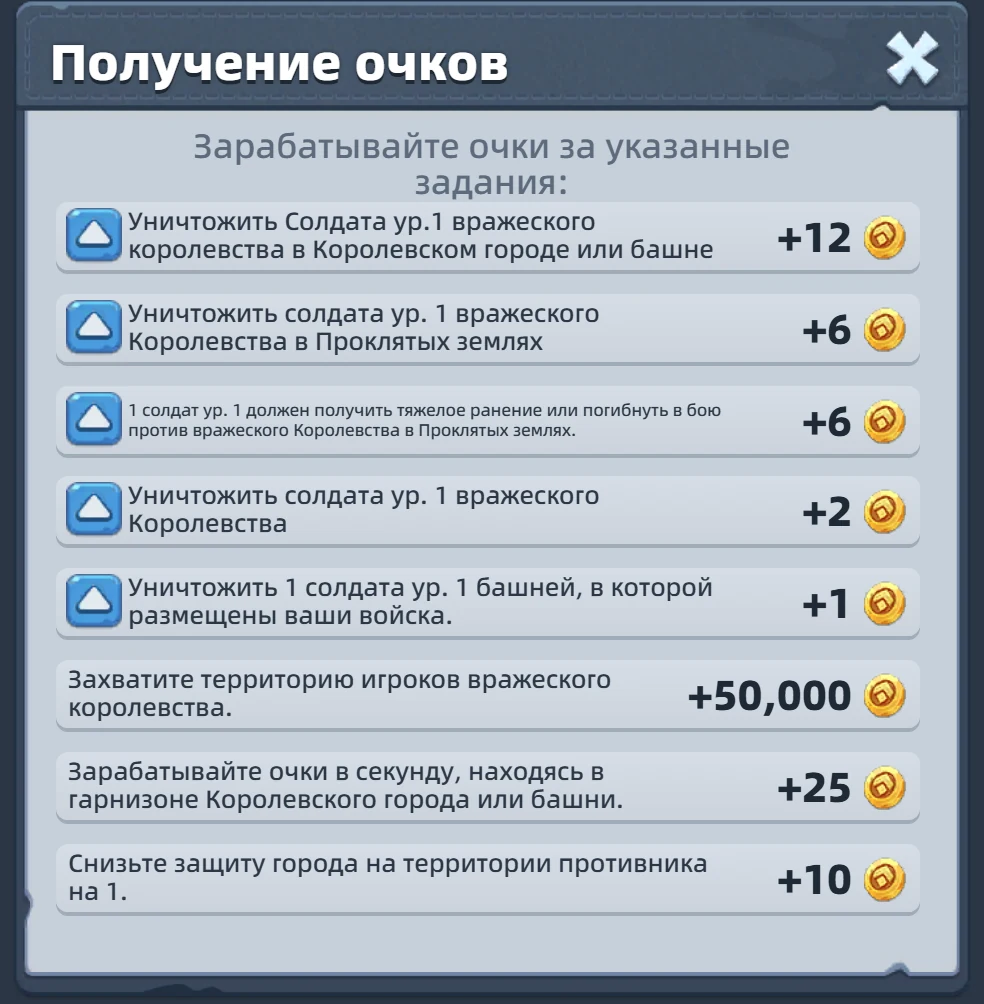
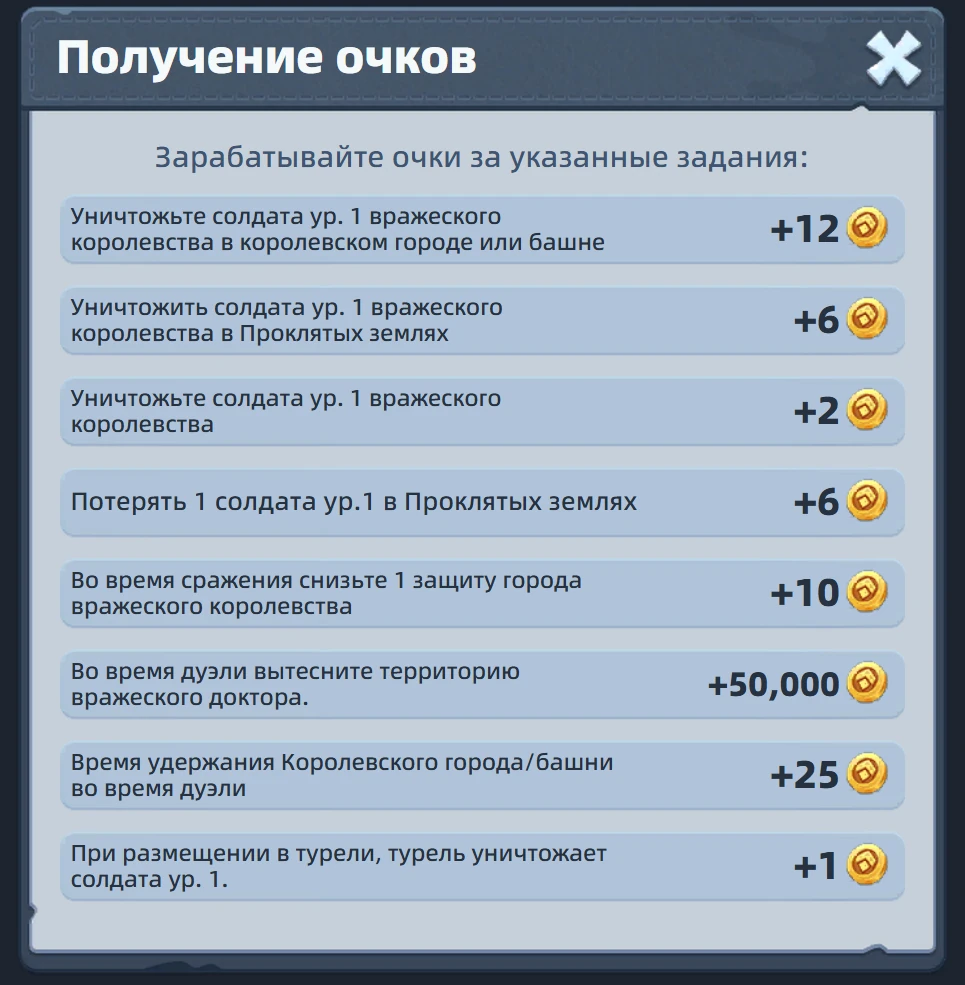
«Получение очков»: нынешнее окно игры, собранное по его схеме из файлов
Взяты свежие файлы игры: установочный 1.0.117 и докачанные игрой ресурсы
версии 1.0.830 (с эмулятора на Ринтике, 3481 пакет). Окно
ZoneContestStageDetailsPanel собрано по его схеме NGUI: каждая картинка из
того атласа, на который ссылается схема, на своём месте и своего размера;
тексты строк — нынешние из игры («Уничтожьте…», «Во время дуэли
вытесните…»), шрифт Alibaba PuHuiTi 2. Стрелок раскрытия у строк нет,
как в игре сейчас. Обводка перенесена на строку удержания (гарнизон, +25).

diff --git a/kvk.html b/kvk.html
@@ -419,8 +419,8 @@
       <p class="cap">Солдаты выше 1 уровня дают больше очков.</p>
     </div>
     <div>
-      <div class="shot"><img src="assets/shots/kvk-points.webp" alt="Окно «Получение очков» в игре" loading="lazy"><span class="ring rect" style="left:48.7%;top:78.8%;width:90%;aspect-ratio:13"></span></div>
-      <p class="cap">Настоящее окно «Получение очков» из игры. Обведена строка, которая важнее всех остальных: гарнизон, +25 в секунду.</p>
+      <div class="shot"><img src="assets/shots/kvk-points.webp" alt="Окно «Получение очков» в игре" loading="lazy"><span class="ring rect" style="left:50%;top:78.8%;width:89%;aspect-ratio:13.2"></span></div>
+      <p class="cap">Окно «Получение очков» в нынешней версии игры. Обведена строка, которая важнее всех остальных: удержание Королевского города или башни, то есть гарнизон, +25 в секунду.</p>
     </div>
   </div>
   <h3>Что делать именно тебе</h3>

diff --git a/src/kvk.html b/src/kvk.html
@@ -384,8 +384,8 @@
       <p class="cap">Солдаты выше 1 уровня дают больше очков.</p>
     </div>
     <div>
-      <div class="shot"><img src="assets/shots/kvk-points.webp" alt="Окно «Получение очков» в игре" loading="lazy"><span class="ring rect" style="left:48.7%;top:78.8%;width:90%;aspect-ratio:13"></span></div>
-      <p class="cap">Настоящее окно «Получение очков» из игры. Обведена строка, которая важнее всех остальных: гарнизон, +25 в секунду.</p>
+      <div class="shot"><img src="assets/shots/kvk-points.webp" alt="Окно «Получение очков» в игре" loading="lazy"><span class="ring rect" style="left:50%;top:78.8%;width:89%;aspect-ratio:13.2"></span></div>
+      <p class="cap">Окно «Получение очков» в нынешней версии игры. Обведена строка, которая важнее всех остальных: удержание Королевского города или башни, то есть гарнизон, +25 в секунду.</p>
     </div>
   </div>
   <h3>Что делать именно тебе</h3>
